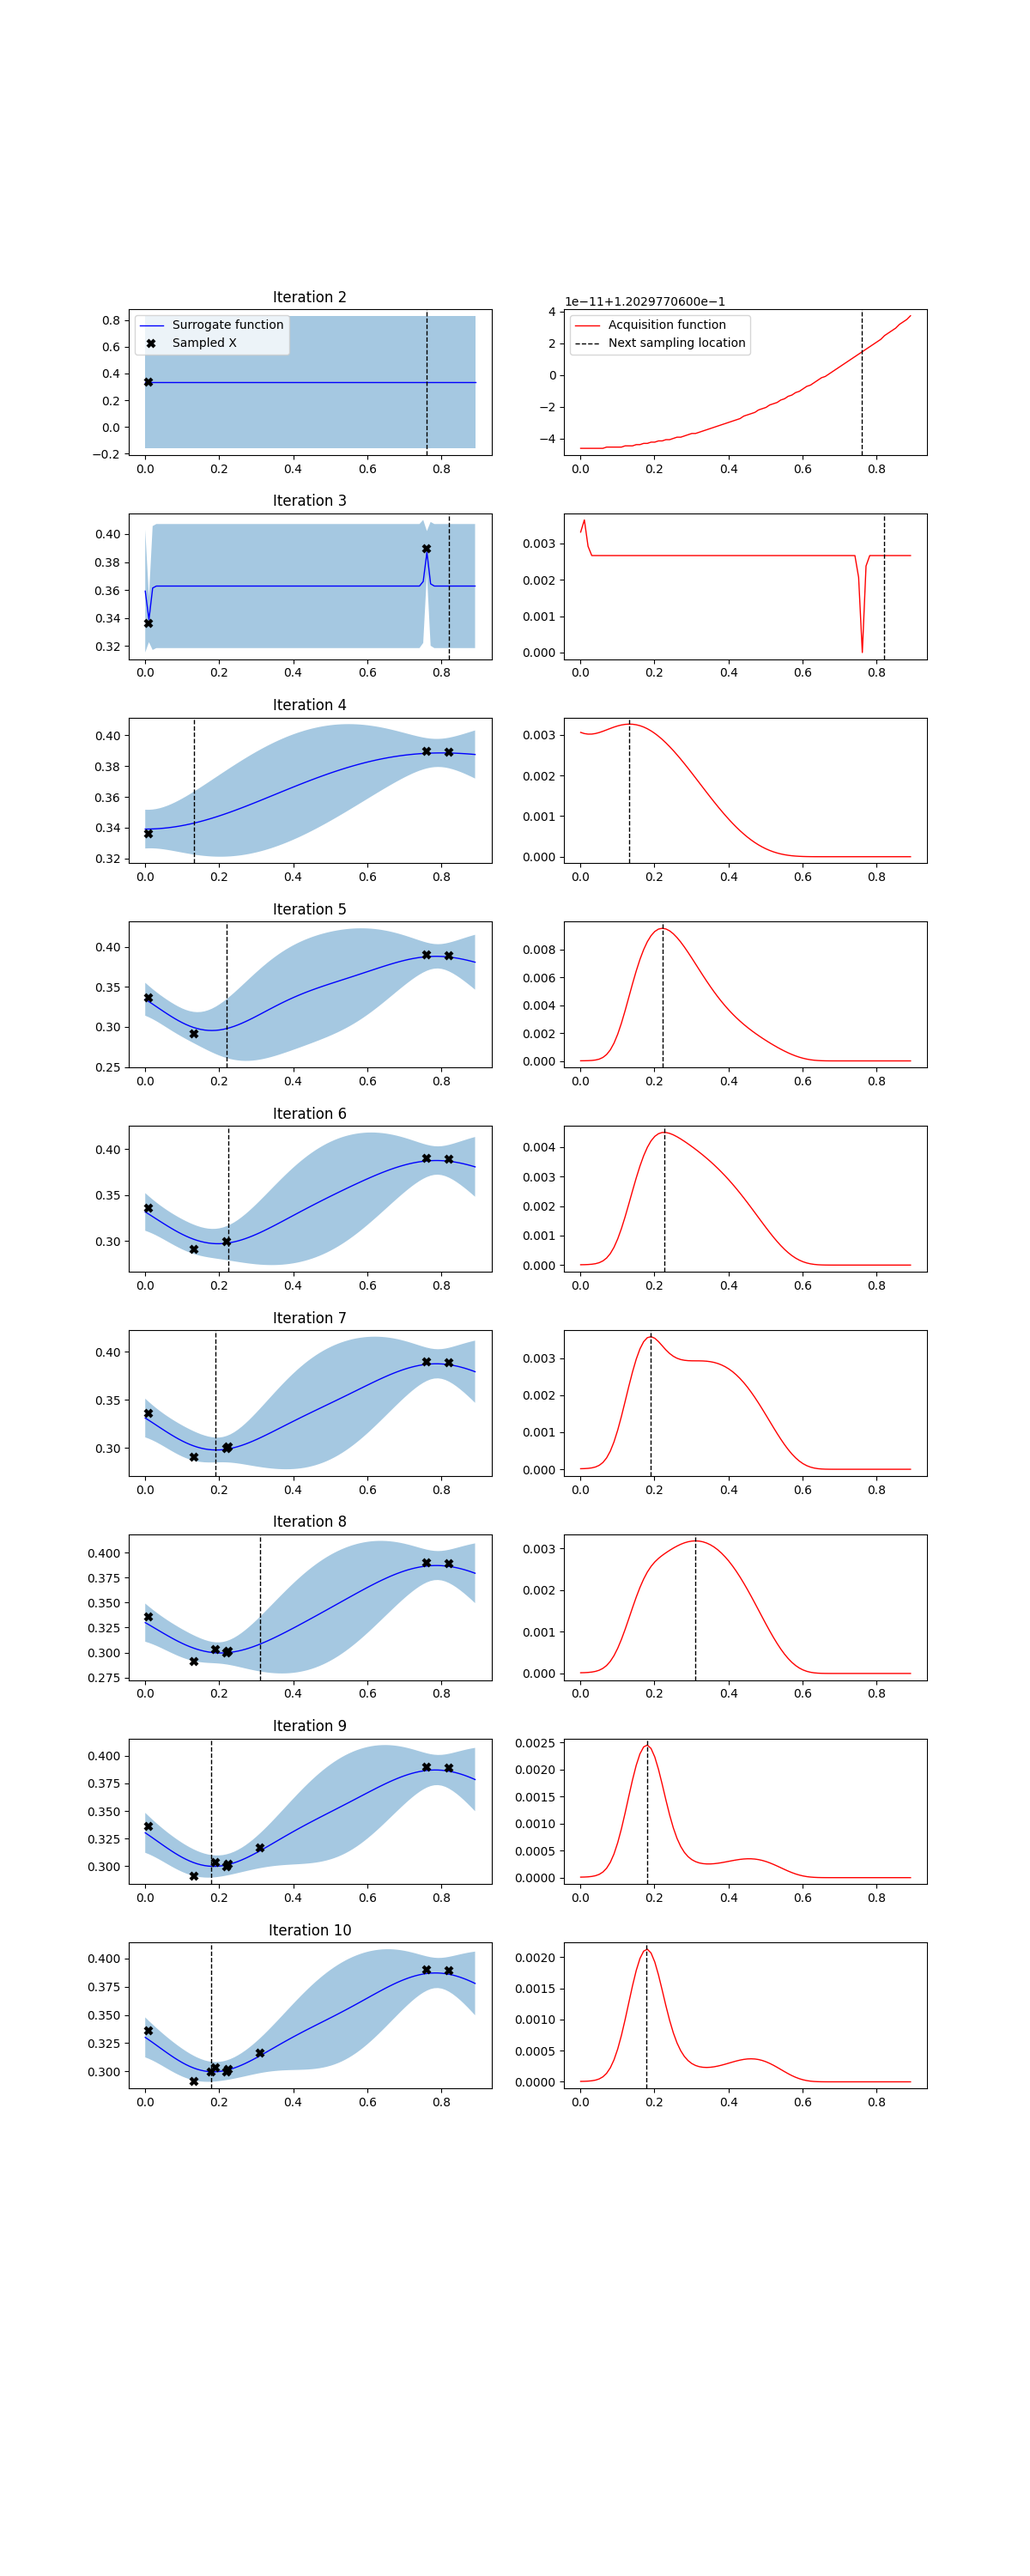
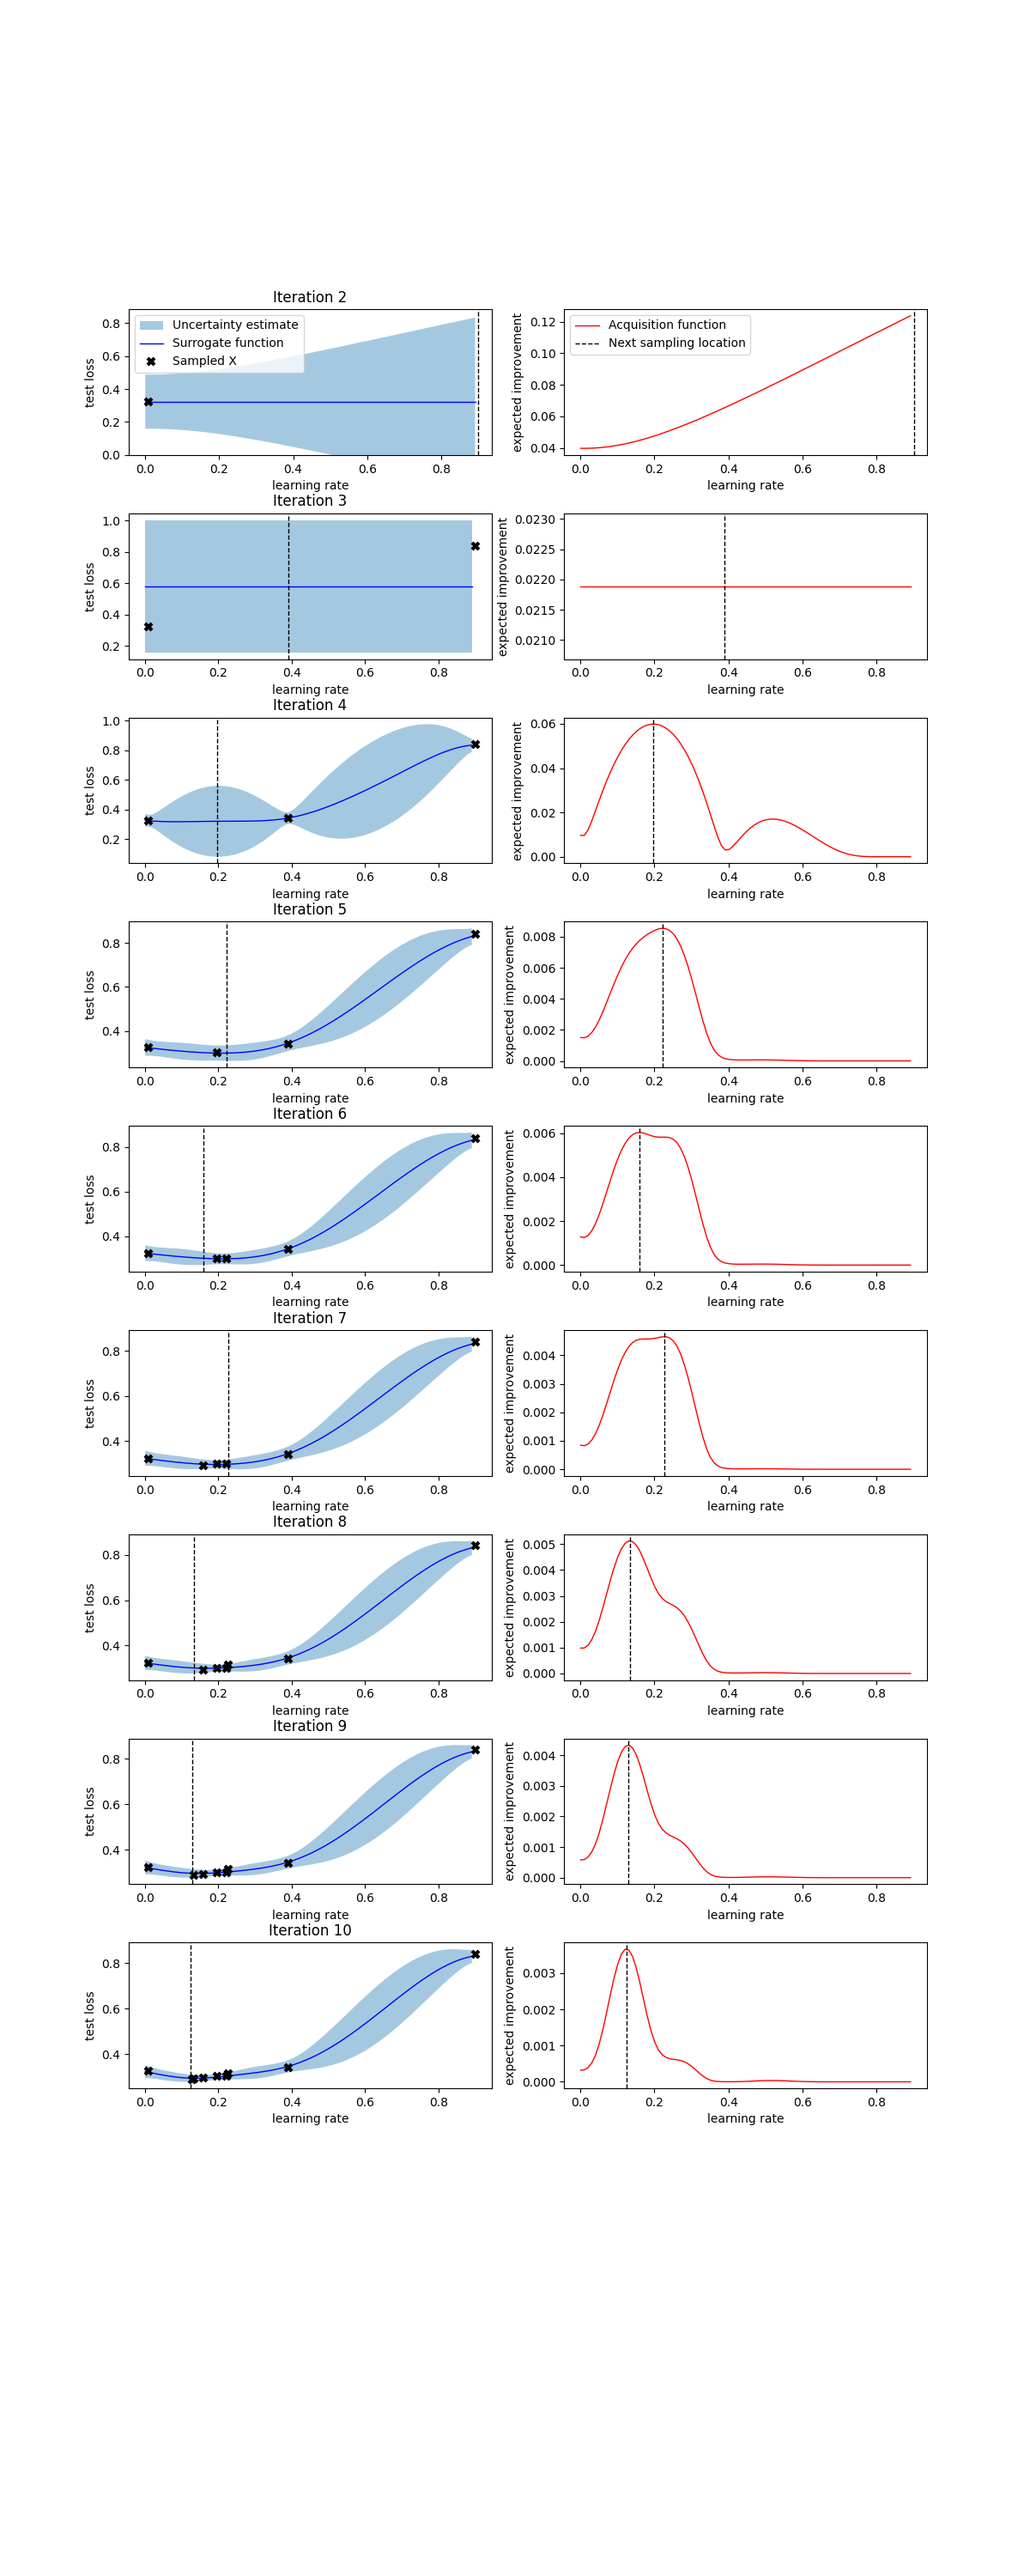
Updated training, use better settings, improved plotting and naming

diff --git a/train_utils/training.py b/train_utils/training.py
@@ -51,13 +51,14 @@ def train(dataloader: DataLoader, model: torch.nn.Module, loss_fn: nn.CrossEntro
 
 
 def test(dataloader: DataLoader, model: torch.nn.Module,
-         loss_fn: nn.CrossEntropyLoss, device: str) -> Tuple[float, float]:
+         loss_fn: nn.CrossEntropyLoss, setname: str, device: str) -> Tuple[float, float]:
     """Return performance of model on a test set
 
     Args:
         dataloader (DataLoader): Torch Dataloader for test data
         model (torch.nn.Module): Model to be evaluated
         loss_fn (nn.CrossEntropyLoss): loss function
+        setname (str): dataset name
         device (str): "cpu" or "cuda"
 
     Returns:
@@ -80,7 +81,7 @@ def test(dataloader: DataLoader, model: torch.nn.Module,
     test_loss /= num_batches
     correct /= size
     print(
-        f"Test Error: \n Accuracy: {(100*correct):>0.1f}%, Avg loss: {test_loss:>8f} \n")
+        f"{setname} Error: \n Accuracy: {(100*correct):>0.1f}%, Avg loss: {test_loss:>8f} \n")
     return correct, test_loss
 
 
@@ -109,7 +110,7 @@ def kfold_train(training_data: torch.Tensor, test_data: torch.Tensor,
     # Create data loaders for test data
     test_dataloader = DataLoader(test_data, batch_size=batch_size)
     accuracy_scores = []
-    test_losses = []
+    cv_losses = []
 
     for fold, (train_idx, test_idx) in enumerate(kfold.split(training_data)):
         print('---fold no---{}---'.format(fold+1))
@@ -128,15 +129,18 @@ def kfold_train(training_data: torch.Tensor, test_data: torch.Tensor,
         for t in range(epochs):
             print(f"---Epoch {t+1}---\n")
             train(train_dataloader, model_copy, loss_fn, optimizer, device)
-            test(cv_dataloader, model_copy, loss_fn, device)
-        # Fold test performance
+
+        # Fold cross-val performance
         accuracy, test_loss = test(
-            test_dataloader, model_copy, loss_fn, device)
+            cv_dataloader, model_copy, loss_fn, "Cross-validation", device)
         accuracy_scores.append(accuracy)
-        test_losses.append(test_loss)
+        cv_losses.append(test_loss)
+
+        # Display test scores for informational purposes
+        test(test_dataloader, model_copy, loss_fn, "Test", device)
     # Average metrics across folds
     avg_accuracy = sum(accuracy_scores)/len(accuracy_scores)
-    avg_loss = sum(test_losses)/len(test_losses)
+    avg_loss = sum(cv_losses)/len(cv_losses)
 
     return avg_accuracy, avg_loss
 

diff --git a/gaussian_utils/gaussian.py b/gaussian_utils/gaussian.py
@@ -3,7 +3,7 @@ from typing import List
 from scipy.stats import norm
 from scipy.optimize import minimize
 from sklearn.gaussian_process import GaussianProcessRegressor
-from sklearn.gaussian_process.kernels import RationalQuadratic, WhiteKernel
+from sklearn.gaussian_process.kernels import Matern, WhiteKernel
 
 
 class GaussianProcessOptimizer():
@@ -20,11 +20,11 @@ class GaussianProcessOptimizer():
         self.lb = lb
         self.ub = ub
         self.bounds = np.array([[lb, ub]])
-        self.noise = 0.1
+        self.noise = 0.1**2
         self.n_restarts = n_restarts
         # Gaussian process to use for estimating the function
         self.gp = GaussianProcessRegressor(
-            kernel=RationalQuadratic() + WhiteKernel(),
+            kernel=Matern(nu=2.5) + WhiteKernel(),
             alpha=self.noise,
             normalize_y=True,
             n_restarts_optimizer=n_restarts
@@ -66,16 +66,18 @@ class GaussianProcessOptimizer():
             X_sample (List[float]): sampled x values
             gpr (GaussianProcessRegressor): GaussianProcessRegressor
         """
-        mu, sigma = gpr.predict(X, return_std=True)
+        mu, std = gpr.predict(X, return_std=True)
         mu_sample = gpr.predict(np.array(X_sample).reshape(-1, 1))
+        # we dont use the sampled optimum because we are using a noisy model
+        # and the sampled optimum may be an unreliabel sample
         mu_sample_opt = np.min(mu_sample)
         mu = mu.reshape(-1, 1)
-        sigma = sigma.reshape(-1, 1)
+        std = std.reshape(-1, 1)
         imp = mu - mu_sample_opt
         flip = -1  # for minimization
-        Z = flip * imp / sigma
-        ei = flip * imp * norm.cdf(Z) + sigma * norm.pdf(Z)
-        ei[sigma == 0.0] = 0.0
+        Z = flip * imp / std
+        ei = flip * imp * norm.cdf(Z) + std * norm.pdf(Z)
+        ei[std == 0.0] = 0.0
 
         return ei
 

diff --git a/plotting_utils/plotting.py b/plotting_utils/plotting.py
@@ -23,11 +23,17 @@ def plot_approximation(gpr: GaussianProcessOptimizer, X: np.ndarray, X_sample: L
     plt.fill_between(X.ravel(),
                      mu.ravel() + 1.645 * std,
                      mu.ravel() - 1.645 * std,
-                     alpha=0.4)
+                     alpha=0.4,
+                     label="Uncertainty estimate")
     plt.plot(X, mu, 'b-', lw=1, label='Surrogate function')
     plt.plot(X_sample, Y_sample, 'kx', mew=3, label='Sampled X')
     plt.axvline(x=X_next, ls='--', c='k', lw=1)
+    ax = plt.gca()
+    ax.set_xlabel('learning rate')
+    ax.set_ylabel('test loss')
+
     if show_legend:
+        ax.set_ylim(ymin=0)
         plt.legend()
 
 
@@ -42,5 +48,8 @@ def plot_acquisition(X: np.ndarray, Y: np.ndarray, X_next: float, show_legend: b
     """
     plt.plot(X, Y, 'r-', lw=1, label='Acquisition function')
     plt.axvline(x=X_next, ls='--', c='k', lw=1, label='Next sampling location')
+    ax = plt.gca()
+    ax.set_xlabel('learning rate')
+    ax.set_ylabel('expected improvement')
     if show_legend:
         plt.legend()
